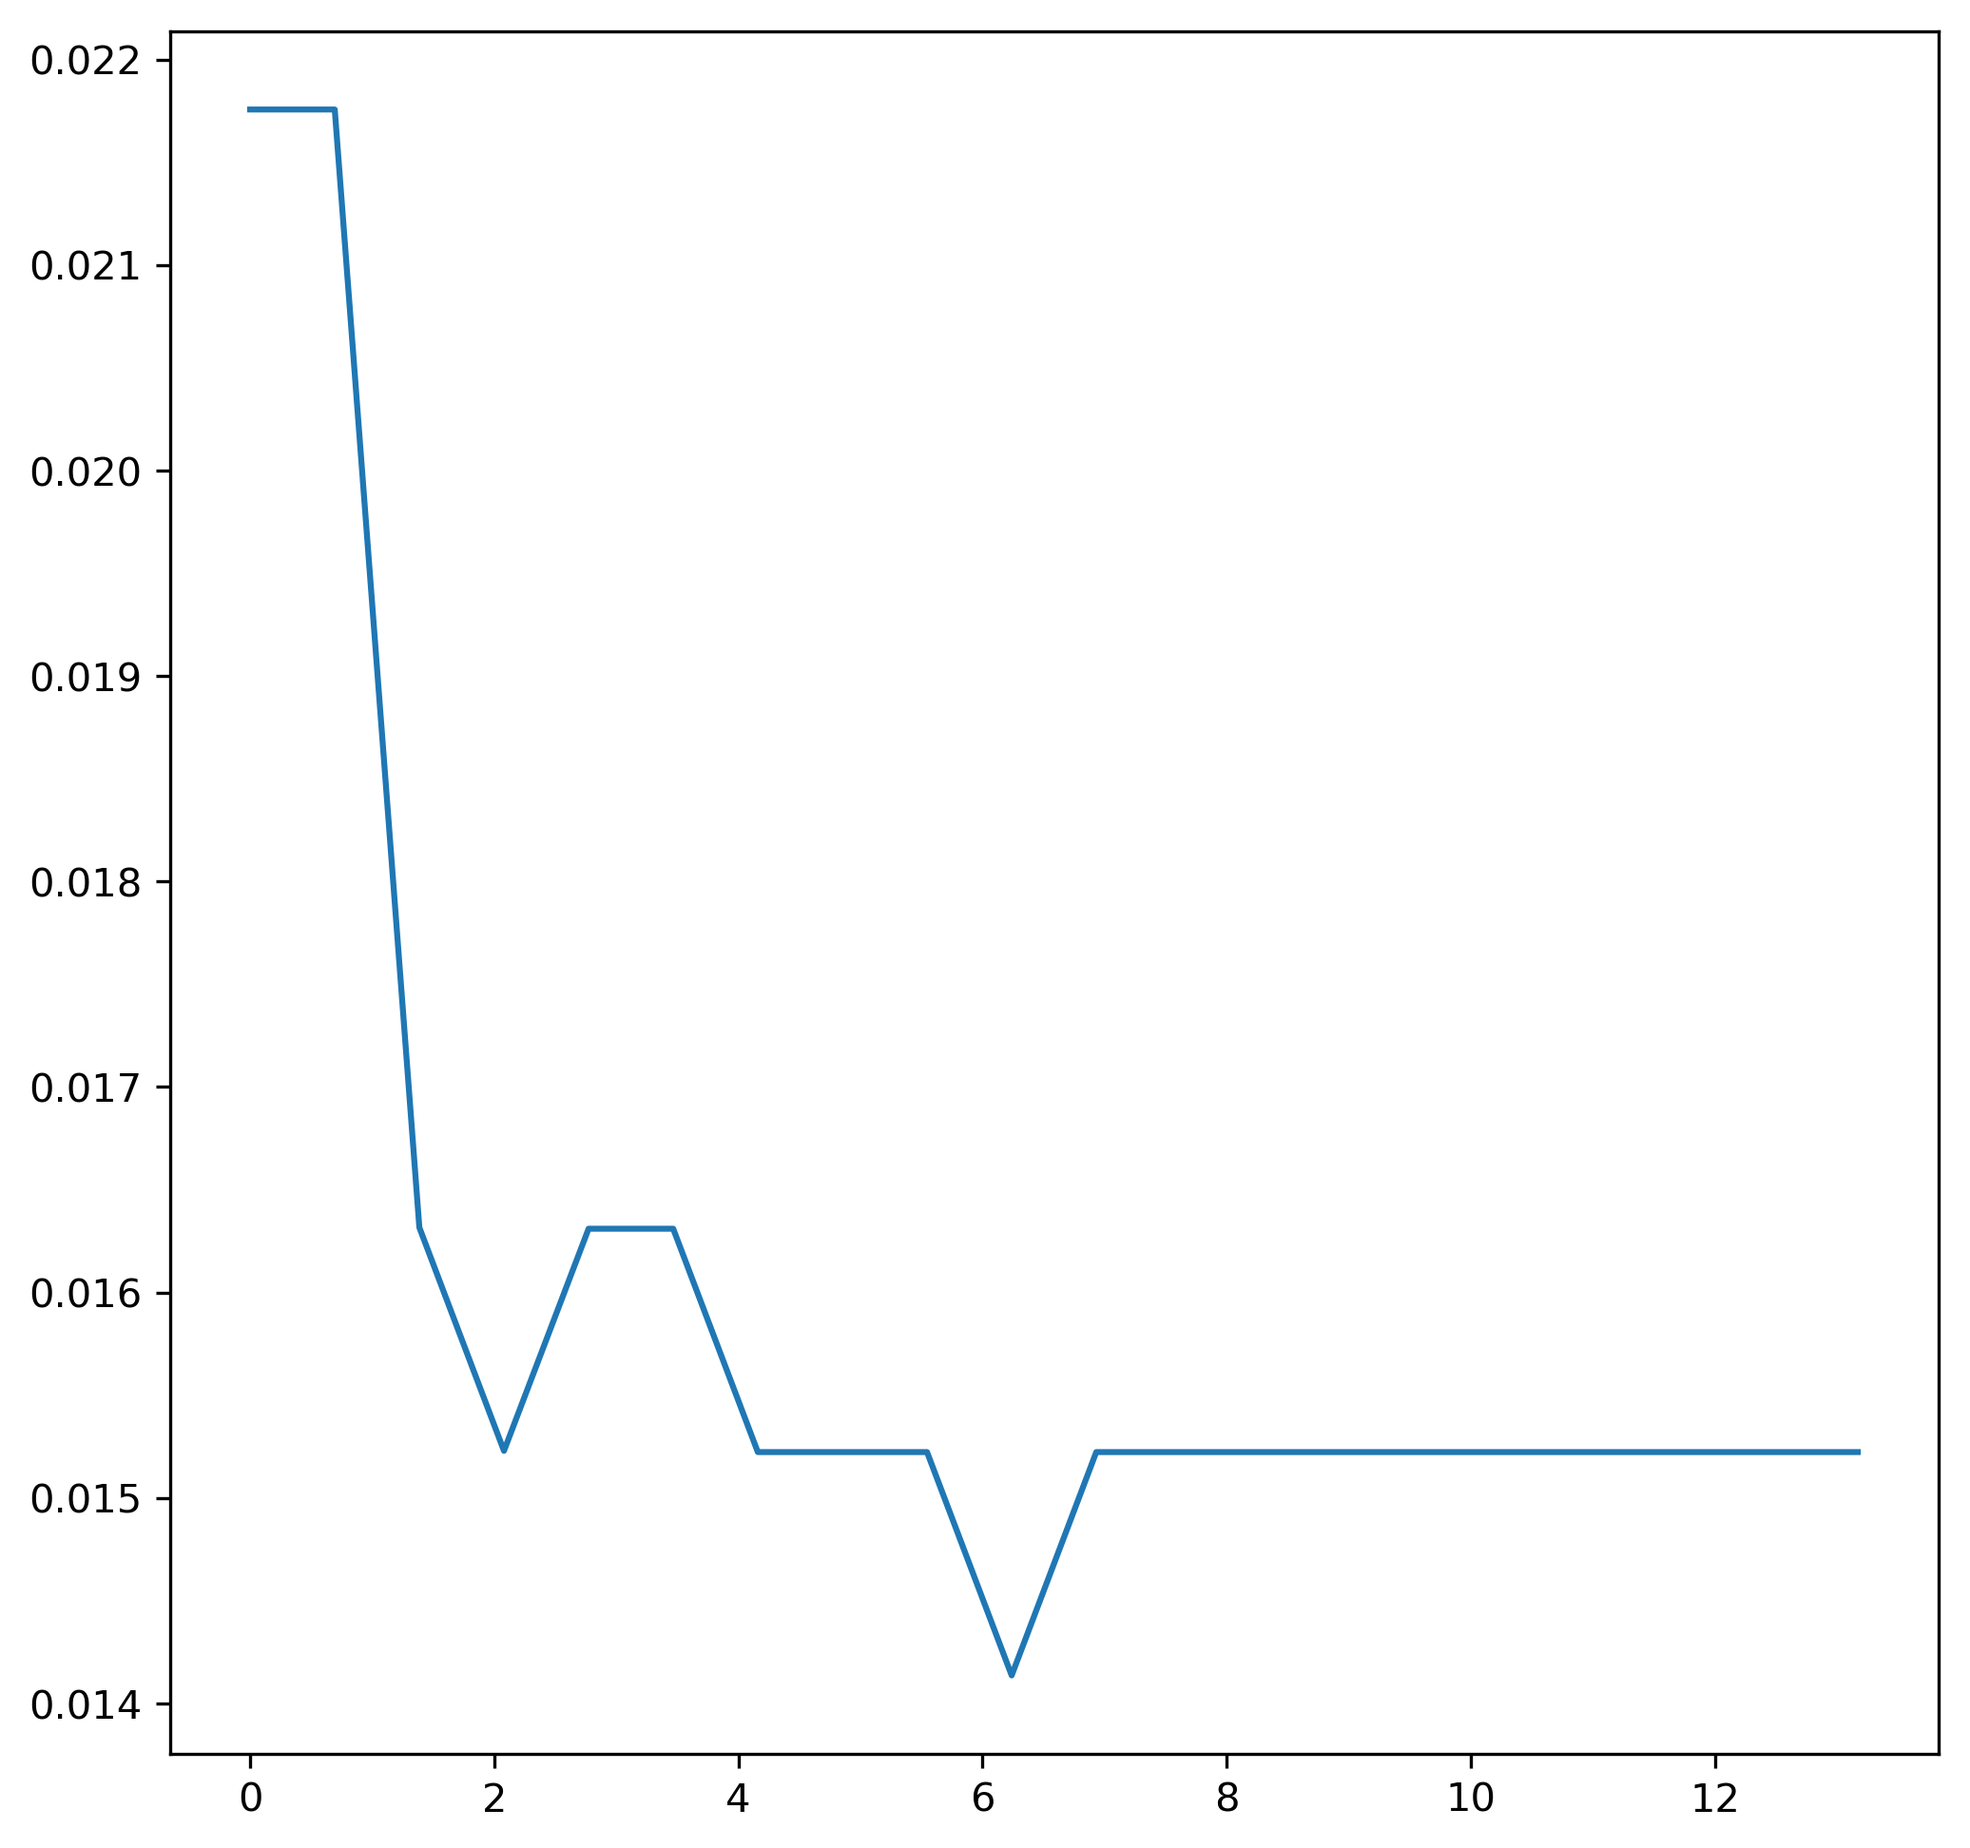
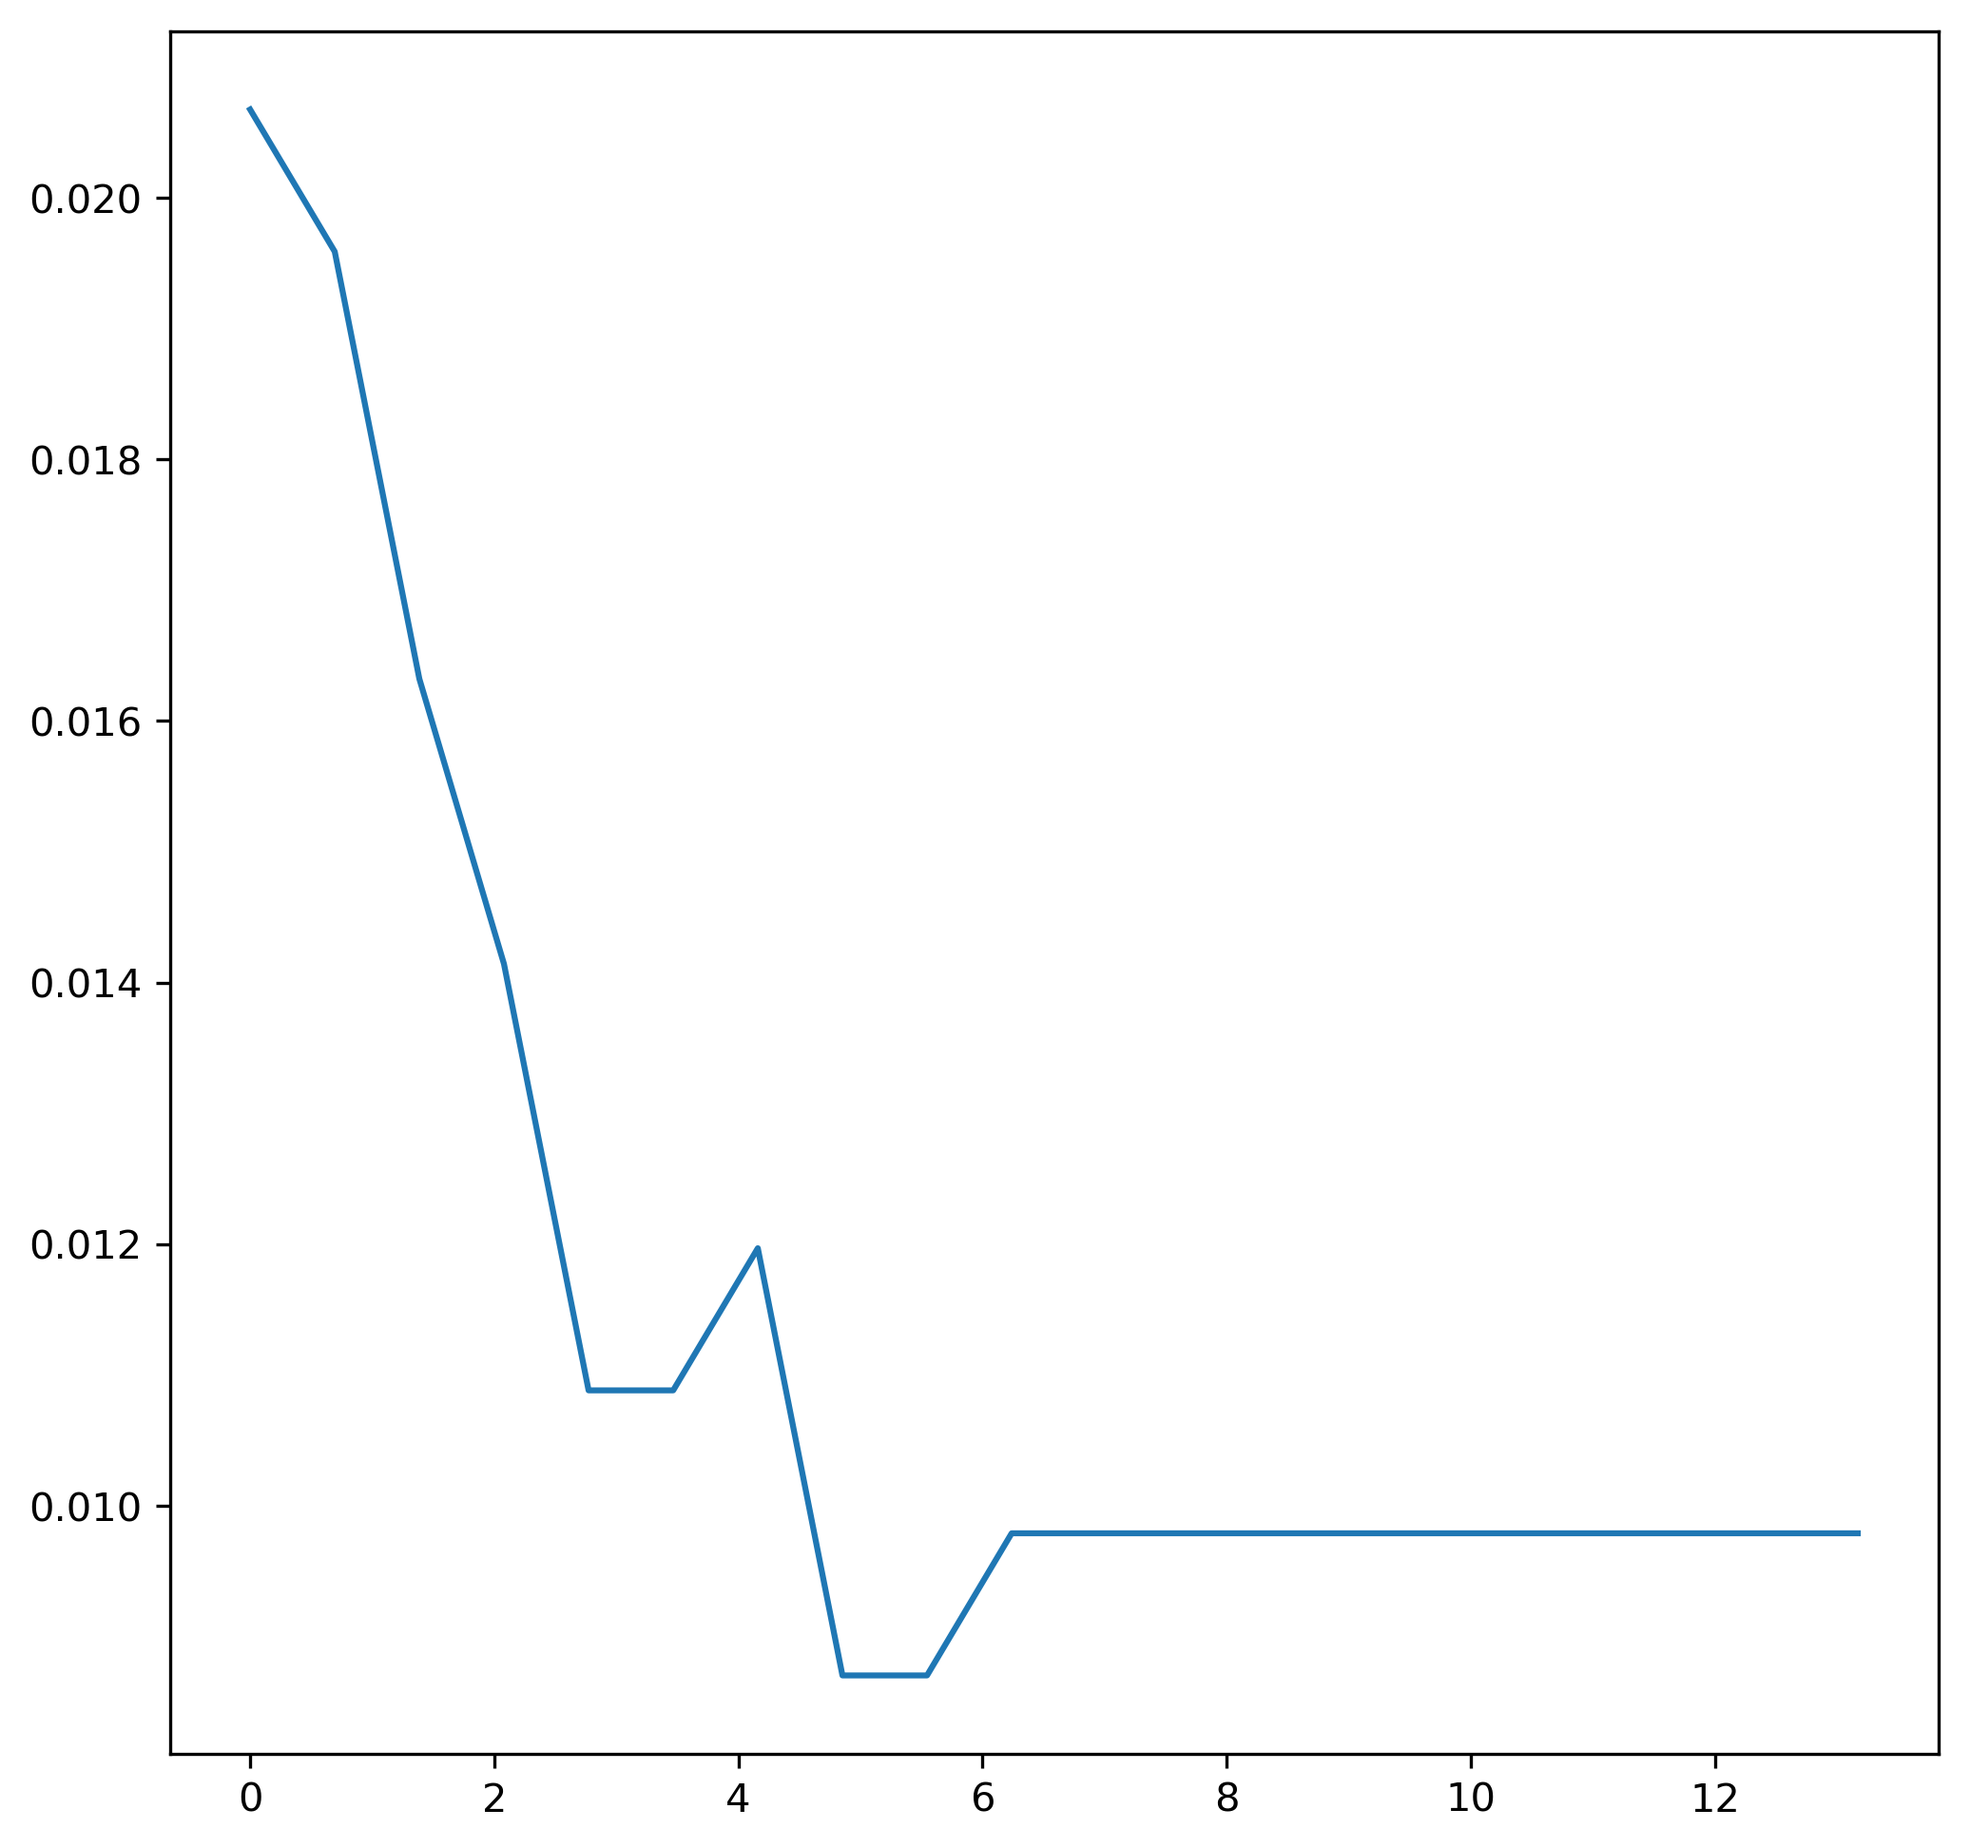
Naive Bayes: Alterei o nome da funcao comparator para condition, penso fazer mais sentido

diff --git a/NaiveBayes.py b/NaiveBayes.py
@@ -25,8 +25,8 @@ class NaiveBayes_kde(BaseEstimator):
             logs[i] = np.log(classes[i].shape[0]/float(X.shape[0]))
         return classes, logs
         
-    def fit(self, X, Y, sample_weight=None, corrector=None):
-        self.corrector = corrector
+    def fit(self, X, Y, condition=None):
+        self.condition = condition
         classes, self.logs = self.separeteByclass(X,Y)
         self.kdes = {}
         for feature in range(X.shape[1]):
@@ -36,15 +36,7 @@ class NaiveBayes_kde(BaseEstimator):
                 self.kdes[feature][c].fit(classes[c][:,[feature]])
        
     def score(self, X, y):
-        p = {}
-        for c in self.logs:
-            p[c] = np.ones(X.shape[0])* self.logs[c]
-       
-        for feature in range(X.shape[1]):
-            for c in self.logs:
-                p[c] = p[c] + self.kdes[feature][c].score_samples(X[:,[feature]])
-        pred = np.zeros(X.shape[0])
-        pred[self.corrector(p)] = 1
+        pred = self.predict(X)
         return np.sum(pred==y)/float(len(y))
     
     def predict(self, X):
@@ -56,7 +48,7 @@ class NaiveBayes_kde(BaseEstimator):
             for c in self.logs:
                 p[c] = p[c] + self.kdes[feature][c].score_samples(X[:,[feature]])
         pred = np.zeros(X.shape[0])
-        pred[self.corrector(p)] = 1
+        pred[self.condition(p)] = 1
         return pred
         
 
@@ -66,7 +58,7 @@ def NaiveBayes (Kf, X_r, Y_r, X_t, Y_t):
     errs=[]
     lowest=100000
     fit_params = {
-    'corrector': corrector}
+    'condition': condition}
     for bw in range(1,100,2):
         kde = NaiveBayes_kde(bw/100)
         scores = cross_val_score(kde, X_r, Y_r, cv=Kf, fit_params=fit_params)
@@ -81,10 +73,10 @@ def NaiveBayes (Kf, X_r, Y_r, X_t, Y_t):
     plt.show()
     plt.close()
 
-    kde = NaiveBayes_kde(best_bandwidth/100); kde.fit(X_r,Y_r, corrector=corrector)
+    kde = NaiveBayes_kde(best_bandwidth/100); kde.fit(X_r,Y_r, condition=condition)
     return 1-kde.score(X_t,Y_t), best_bandwidth, kde.predict(X_t)
 
-def corrector(p):
+def condition(p):
     return p[1]>p[0]
 
 
